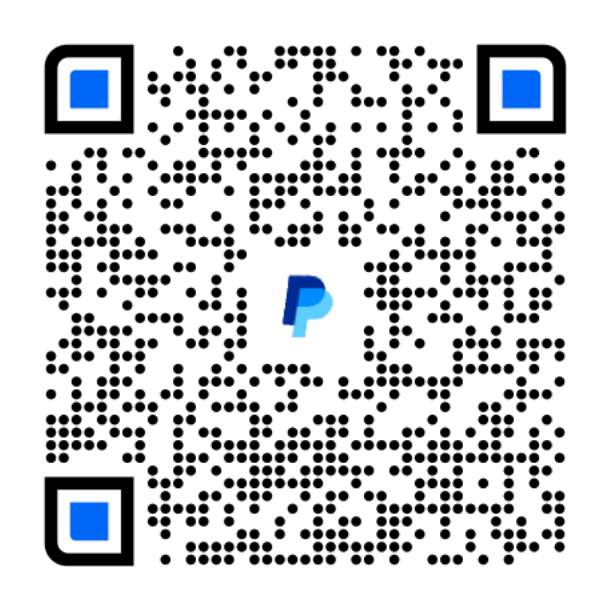
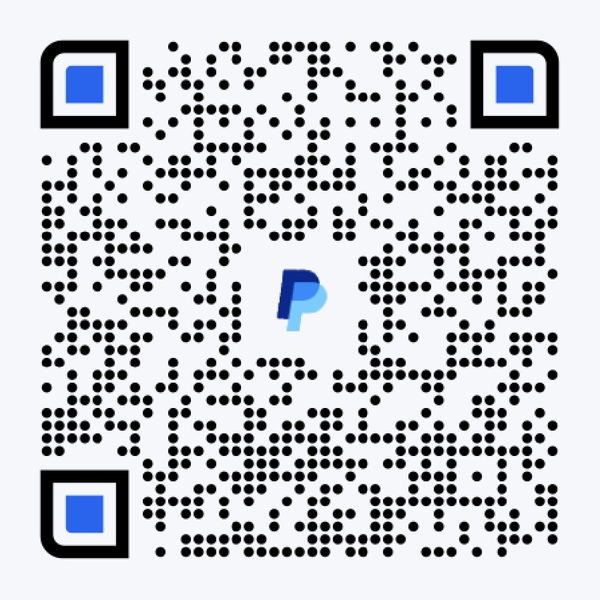
Use the new SweetWalks LLC PayPal QR, add the dozen minimum, and update the cancellation policy.

Changed region(s): [[0.06, 0.06, 0.96, 0.96]]

diff --git a/index.html b/index.html
@@ -33,7 +33,7 @@
   <link rel="preconnect" href="https://fonts.googleapis.com">
   <link rel="preconnect" href="https://fonts.gstatic.com" crossorigin>
   <link href="https://fonts.googleapis.com/css2?family=Great+Vibes&family=Nunito:ital,wght@0,400;0,600;0,700;1,400&family=Playfair+Display:ital,wght@0,600;0,700;1,500;1,600&display=swap" rel="stylesheet">
-  <link rel="stylesheet" href="styles.css?v=1119c">
+  <link rel="stylesheet" href="styles.css?v=1119e">
   <script type="application/ld+json">
 {
   "@context": "https://schema.org",
@@ -161,7 +161,15 @@
           "name": "What is your cancellation and refund policy?",
           "acceptedAnswer": {
             "@type": "Answer",
-            "text": "The 50% deposit that books your order is non-refundable. Cancel 7 or more days ahead for a 60-day credit. Cancel 3 to 7 days ahead for a full refund of payments beyond the nonrefundable deposit. Under 72 hours, the full total is due. Cancellations the same day or during the scheduled delivery window get no refund."
+            "text": "A 50% deposit books your order. Cancel 7 or more days before your order date for a full refund, including the deposit. Cancel 3 to 6 days before for a refund of your payments, minus the deposit, which is nonrefundable at that point. Cancel 2 days or less before your order date, including the same day or during the delivery window, and there is no refund."
+          }
+        },
+        {
+          "@type": "Question",
+          "name": "Is there a minimum order?",
+          "acceptedAnswer": {
+            "@type": "Answer",
+            "text": "Delivery and meetup orders need at least a dozen. Single cookies are pickup only."
           }
         },
         {
@@ -336,6 +344,7 @@
               <h3>Cookies</h3>
               <p class="prices"><strong>$2.50</strong> each<br><strong>$25</strong> per dozen</p>
             </div>
+            <p class="min-order-note">Single cookies are pickup only. Delivery and meetup orders need at least a dozen.</p>
             <ul class="flavor-list two-col">
               <li>Chocolate Chip <span class="hint nowrap">(with or without nuts)</span></li>
               <li>Snickerdoodle</li>
@@ -503,6 +512,7 @@
           <li>We also deliver beyond these areas. Text us at <a href="sms:+19167209564">(916) 720-9564</a> to ask.</li>
           <li>We will provide a 3-hour delivery window based on the time slot you've chosen when submitting an order.</li>
           <li>Meetups are at 2801 Arden Way, Sacramento, at the pickup date and time you schedule.</li>
+          <li>Delivery and meetup orders need at least a dozen. Single cookies are pickup only.</li>
           <li>Delivery fees are $5–$10 within Sacramento and $20–$40 for the Bay Area. Your exact fee is confirmed when we confirm your order.</li>
         </ul>
       </div>
@@ -540,7 +550,11 @@
           </details>
           <details class="faq-item">
             <summary>What is your cancellation and refund policy?</summary>
-            <p>The 50% deposit that books your order is non-refundable. Cancel 7 or more days ahead for a 60-day credit. Cancel 3 to 7 days ahead for a full refund of payments beyond the nonrefundable deposit. Under 72 hours, the full total is due. Cancellations the same day or during the scheduled delivery window get no refund. See our <a href="#policy">Order Policy</a>.</p>
+            <p>A 50% deposit books your order. Cancel 7 or more days before your order date for a full refund, including the deposit. Cancel 3 to 6 days before for a refund of your payments, minus the deposit, which is nonrefundable at that point. Cancel 2 days or less before your order date, including the same day or during the delivery window, and there is no refund. See our <a href="#policy">Order Policy</a>.</p>
+          </details>
+          <details class="faq-item">
+            <summary>Is there a minimum order?</summary>
+            <p>Delivery and meetup orders need at least a dozen. Single cookies are pickup only.</p>
           </details>
           <details class="faq-item">
             <summary>How long do your treats stay fresh?</summary>
@@ -576,7 +590,7 @@
         <form id="order-form" class="order-form" action="mailto:KCwalks@thesweetwalks.com?subject=Order%20request" method="post" enctype="text/plain">
           <fieldset class="card" data-repeat="cookie">
             <legend>Cookies</legend>
-            <p class="fieldset-note">$2.50 each, or $25 per dozen. Same price for every flavor.</p>
+            <p class="fieldset-note">$2.50 each, or $25 per dozen. Same price for every flavor. Single cookies are pickup only.</p>
             <div class="rows" data-rows>
               <div class="order-row" data-item="cookie">
                 <label>
@@ -789,7 +803,7 @@
 
           <fieldset class="card fulfillment">
             <legend>Pickup or delivery</legend>
-            <p class="fieldset-note">Pickup in Sacramento, delivery, or a meetup at 2801 Arden Way, Sacramento. <a href="#delivery">See Pickup &amp; Delivery</a>.</p>
+            <p class="fieldset-note">Pickup in Sacramento, delivery, or a meetup at 2801 Arden Way, Sacramento. Delivery and meetup orders need at least a dozen. Single cookies are pickup only. <a href="#delivery">See Pickup &amp; Delivery</a>.</p>
             <div class="choice-row">
               <label class="choice">
                 <input type="radio" name="fulfillment" value="Pickup in Sacramento" checked>
@@ -804,6 +818,7 @@
                 <span>Meet up</span>
               </label>
             </div>
+            <p class="min-order-alert" data-min-note hidden role="status">Just a heads-up: delivery and meetup orders need at least a dozen, and single cookies are pickup only. Add a few more treats or choose pickup. You can still send your request and we'll sort it out with you.</p>
             <label class="full" data-delivery-area>
               <span><span data-delivery-label>Delivery address</span> <span class="req">*</span></span>
               <textarea name="delivery-area" rows="2" autocomplete="street-address" placeholder="Street address, city, and ZIP"></textarea>
@@ -854,13 +869,12 @@
           <p>Send an order request by email, text us at <a href="sms:+19167209564">(916) 720-9564</a>, or DM us on Instagram. We will confirm your items, pickup or delivery, and payment before baking.</p>
           <h3 class="subhead">Order Policy</h3>
           <ul class="policy">
-            <li>50% non-refundable deposit to book your order</li>
+            <li>50% deposit to book your order, refundable only if you cancel 7+ days ahead</li>
             <li>Orders under $50 or needed within 72 hours are paid in full</li>
             <li>Balance due 48 hours before pickup or delivery</li>
-            <li>Cancel 7+ days ahead for a 60-day credit</li>
-            <li>Cancel 3 to 7 days ahead for a full refund of payments beyond the nonrefundable deposit</li>
-            <li>Under 72 hours, full total due</li>
-            <li>No refund for cancellations the same day or during the scheduled delivery window</li>
+            <li>Cancel 7+ days before your order date for a full refund, including the deposit</li>
+            <li>Cancel 3 to 6 days before for a refund of your payments, minus the nonrefundable deposit</li>
+            <li>Cancel 2 days or less before your order date, including the same day or during the delivery window: no refund</li>
             <li>Cash accepted only after the deposit and delivery fee are paid, unless otherwise negotiated</li>
           </ul>
         </article>
@@ -897,8 +911,9 @@
           </article>
           <article class="pay-card">
             <h3>PayPal</h3>
+            <p class="pay-business">SweetWalks LLC</p>
             <p class="pay-handle">Scan or tap to pay</p>
-            <img src="images/pay/paypal.png?v=1119" width="200" height="200" loading="lazy" alt="PayPal QR code for SweetWalks">
+            <img src="images/pay/paypal.png?v=1119e" width="200" height="200" loading="lazy" alt="PayPal QR code for SweetWalks LLC">
             <a class="pay-link" href="https://www.paypal.com/qrcodes/p2pqrc/D6NA7KAPZJD9J" target="_blank" rel="noopener noreferrer">Open PayPal</a>
           </article>
           <article class="pay-card">
@@ -1020,6 +1035,6 @@
 
   <a class="float-order is-hidden" href="#order" data-float-order>Order Now</a>
 
-  <script src="script.js?v=1119c"></script>
+  <script src="script.js?v=1119e"></script>
 </body>
 </html>

diff --git a/script.js b/script.js
@@ -239,6 +239,30 @@
       : "Estimated total: " + money(sum);
     var fb = document.querySelector("[data-float-order]");
     if (fb) fb.textContent = cart.length ? "Your order (" + cart.length + ")" : "Order Now";
+    checkMinimum();
+  }
+
+  // Delivery and meetup orders need at least a dozen; single cookies are pickup only.
+  // Friendly heads-up only, it never blocks sending.
+  function checkMinimum() {
+    var note = form.querySelector("[data-min-note]");
+    if (!note) return;
+    var selected = form.querySelector('input[name="fulfillment"]:checked');
+    var v = selected && selected.value;
+    var show = false;
+    if ((v === "Delivery" || v === "Meet up") && cart.length) {
+      var count = 0;
+      var wholeItems = false;
+      cart.forEach(function (item) {
+        var f = item.fields || {};
+        var q = parseInt(f.qty, 10) || 0;
+        var countable = item.kind === "cookie" || item.kind === "cupcake" || (item.kind === "other" && f.type === "Brownies");
+        if (countable) count += f.unit === "dozen" ? q * 12 : q;
+        else wholeItems = true;
+      });
+      show = !wholeItems && count > 0 && count < 12;
+    }
+    note.hidden = !show;
   }
 
   function resetRow(row) {

diff --git a/styles.css b/styles.css
@@ -1731,3 +1731,16 @@ html.thanks-cutoff-passed .deadline-list [data-thanks-cutoff] { display: none; }
 
 /* Contact hours and reply time */
 .reply-time { margin: 0.8rem 0 0; font-weight: 700; color: var(--cocoa); }
+
+/* Minimum order notes */
+.min-order-note { margin: 0.2rem 0 0.6rem; font-size: 0.92rem; font-weight: 700; color: var(--rose); }
+.min-order-alert {
+  margin: 0.6rem 0;
+  padding: 0.65rem 0.9rem;
+  background: #fff6e0;
+  border: 1.5px solid var(--butter);
+  border-radius: 0.85rem;
+  color: var(--ink);
+  line-height: 1.45;
+}
+.min-order-alert[hidden] { display: none; }

diff --git a/sw.js b/sw.js
@@ -1,5 +1,5 @@
 /* SweetWalks service worker: network-first, cache only a home-page fallback for offline. */
-var CACHE = "sweetwalks-v1119c";
+var CACHE = "sweetwalks-v1119e";
 var OFFLINE_URL = "/";
 
 self.addEventListener("install", function (event) {
